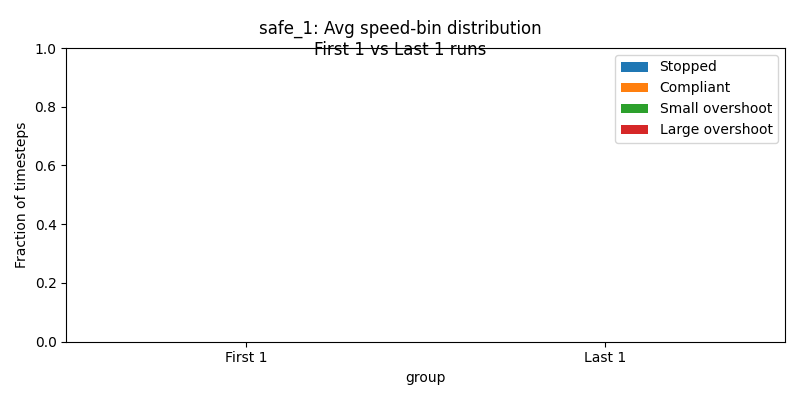
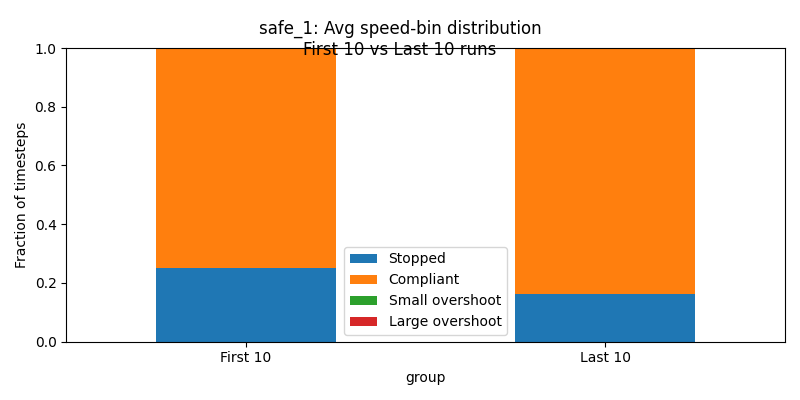
feat: correct implementation of speed compliance q learning, ran 100 simulations, results not properly formatted or are incorrect though - checking this

diff --git a/src/simulation/batch.py b/src/simulation/batch.py
@@ -273,4 +273,4 @@ def main(num_runs: int = 100):
         print(f"[Plot] avg speed-bin comparison ({group_size}) for {agent_id} saved to {out_path}")
 
 if __name__ == "__main__":
-    main(1)
+    main(100)
